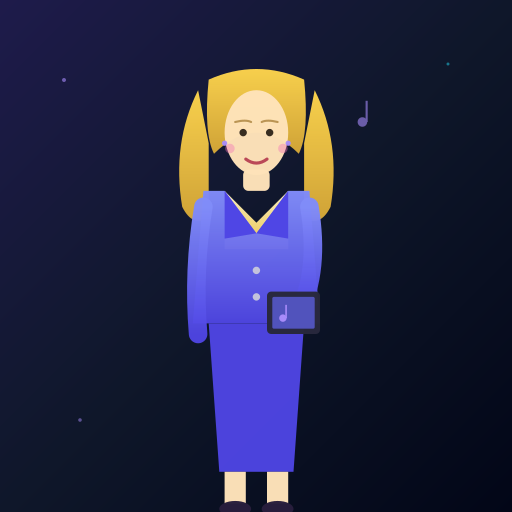
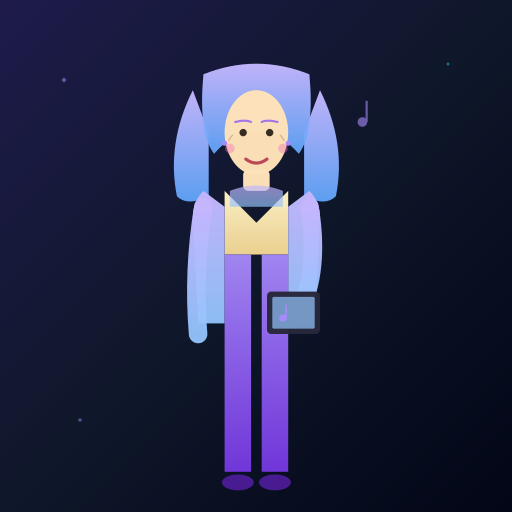
feat(consultant): возраст ~30, каре фирменное, полуделовой + fix дубль подписи
Eugene 2026-05-12 (3 правки в одном коммите):
1. «Добавь в образ возраст ~30, фирменные цвета волос под каре, полуделовой стиль»
2. «Уменьши в 1.5 раза» (после увеличения 4x)
3. «2 раза подписана Аня»

Дизайн v6:
- Волосы: блонд → ФИРМЕННЫЙ pastel purple-blue gradient (#c4b5fd → #60a5fa),
  каре до подбородка (прямая линия, форма ровная)
- Брови: коричневые → лавандовые в тон волос (rgba(139,92,246))
- Возраст ~30: добавлены тонкие морщинки в уголках глаз (opacity 0.35),
  ровный овал лица
- Полуделовой жакет: убраны жёсткие треугольные лацканы и пуговицы.
  Открытый спереди (видна блузка), мягкая линия плеч, воротник-стойка.
  Цвет → фирменный gradient #c4b5fd → #93c5fd
- Прямые брюки вместо юбки-карандаш — менее формально. Фирменный
  фиолетовый gradient #a78bfa → #7c3aed
- Туфли мягче (deep purple #4c1d95)
- Планшет, акцентная нота, улыбка, щёчки — сохранены

Размер уменьшен 1.5x: w-24 h-40 sm:w-28 sm:h-44 → w-16 h-28 sm:w-20 sm:h-32
(96×160/112×176 → 64×112/80×128).

Fix дубль подписи:
- Prompt: явная инструкция «НЕ подписывай сообщения своим именем в конце»
- Code dedup: regexp '\s*[—\-–]+\s*(Аня|Татьяна|Мария|Ольга)(\s*·\s*MuziAi)?\s*\.?\s*$'
  убирает LLM-подпись если она есть. Footer добавляется кодом всегда —
  получаем ровно одну.
- Применено в telegram-bot (Claude reply + quick-reply) + max-bot.

Файлы:
- client/src/components/floating-consultant.tsx
- client/public/consultant-avatar.svg
- client/public/consultant-avatar.png (regen 30KB)
[…]

Changed region(s): [[0.3125, 0.125, 0.6875, 1.0]]

diff --git a/apps/neurohub/client/src/components/floating-consultant.tsx b/apps/neurohub/client/src/components/floating-consultant.tsx
@@ -136,92 +136,93 @@ export function FloatingConsultant() {
           onMouseEnter={() => setHovered(true)}
           onMouseLeave={() => setHovered(false)}
           aria-label="Помощник"
-          className="block w-24 h-40 sm:w-28 sm:h-44 active:scale-95 transition-transform opacity-90 hover:opacity-100 consultant-dance"
+          className="block w-16 h-28 sm:w-20 sm:h-32 active:scale-95 transition-transform opacity-90 hover:opacity-100 consultant-dance"
         >
           <svg viewBox="0 0 56 96" className="w-full h-full" aria-hidden="true">
             <defs>
               <linearGradient id="bizJacket" x1="0" y1="0" x2="0" y2="1">
-                <stop offset="0%" stopColor="rgba(99,102,241,0.95)" />
-                <stop offset="100%" stopColor="rgba(67,56,202,0.92)" />
+                <stop offset="0%" stopColor="rgba(196,181,253,0.95)" />
+                <stop offset="100%" stopColor="rgba(147,197,253,0.92)" />
               </linearGradient>
               <linearGradient id="bizBlouse" x1="0" y1="0" x2="0" y2="1">
                 <stop offset="0%" stopColor="rgba(254,243,199,0.95)" />
-                <stop offset="100%" stopColor="rgba(252,211,77,0.88)" />
+                <stop offset="100%" stopColor="rgba(253,224,153,0.88)" />
               </linearGradient>
               <linearGradient id="bizHair" x1="0" y1="0" x2="0" y2="1">
-                <stop offset="0%" stopColor="rgba(252,211,77,0.95)" />
-                <stop offset="100%" stopColor="rgba(217,170,55,0.90)" />
+                <stop offset="0%" stopColor="rgba(196,181,253,0.95)" />
+                <stop offset="100%" stopColor="rgba(96,165,250,0.92)" />
+              </linearGradient>
+              <linearGradient id="bizTrousers" x1="0" y1="0" x2="0" y2="1">
+                <stop offset="0%" stopColor="rgba(167,139,250,0.92)" />
+                <stop offset="100%" stopColor="rgba(124,58,237,0.88)" />
               </linearGradient>
             </defs>
 
-            {/* Деловая стрижка боб до плеч */}
+            {/* Каре — прямые волосы до подбородка, фирменные цвета MuziAi */}
             <path
-              d="M 17 14 Q 12 24 14 36 Q 16 40 19 38 L 19 24 Z
-                 M 39 14 Q 44 24 42 36 Q 40 40 37 38 L 37 24 Z"
+              d="M 16 14 Q 11 24 13 34 Q 15 36 19 34 L 19 22 Z
+                 M 40 14 Q 45 24 43 34 Q 41 36 37 34 L 37 22 Z"
               fill="url(#bizHair)"
             />
-            <path d="M 19 12 Q 28 8 37 12 Q 38 22 36 26 Q 28 18 20 26 Q 18 22 19 12 Z" fill="url(#bizHair)" />
+            <path d="M 18 11 Q 28 7 38 11 Q 39 22 36 26 Q 28 17 20 26 Q 17 22 18 11 Z" fill="url(#bizHair)" />
 
-            {/* Лицо — взрослое */}
+            {/* Лицо ~30 лет — взрослое овальное */}
             <ellipse cx="28" cy="22" rx="6" ry="8" fill="rgba(254,226,184,0.95)" />
 
-            {/* Открытые глаза — взгляд вперёд (нейтральный, профессиональный) */}
+            {/* Открытые глаза */}
             <circle cx="25.5" cy="22" r="0.7" fill="rgba(40,30,20,0.85)" />
             <circle cx="30.5" cy="22" r="0.7" fill="rgba(40,30,20,0.85)" />
-            {/* Брови — тонкие, светлые */}
-            <path d="M 24 20 Q 26 19.5 27 20" stroke="rgba(170,130,60,0.7)" strokeWidth="0.4" fill="none" strokeLinecap="round" />
-            <path d="M 29 20 Q 30 19.5 32 20" stroke="rgba(170,130,60,0.7)" strokeWidth="0.4" fill="none" strokeLinecap="round" />
+            {/* Лёгкие морщинки у глаз — намёк на возраст ~30 */}
+            <path d="M 23.5 22.5 Q 23 23 22.8 23.5" stroke="rgba(150,110,80,0.35)" strokeWidth="0.25" fill="none" strokeLinecap="round" />
+            <path d="M 32.5 22.5 Q 33 23 33.2 23.5" stroke="rgba(150,110,80,0.35)" strokeWidth="0.25" fill="none" strokeLinecap="round" />
+            {/* Брови — в тон волос (лавандовые) */}
+            <path d="M 24 20 Q 26 19.5 27 20" stroke="rgba(139,92,246,0.7)" strokeWidth="0.4" fill="none" strokeLinecap="round" />
+            <path d="M 29 20 Q 30 19.5 32 20" stroke="rgba(139,92,246,0.7)" strokeWidth="0.4" fill="none" strokeLinecap="round" />
 
-            {/* Весёлая широкая улыбка */}
+            {/* Весёлая улыбка */}
             <path d="M 26 27 Q 28 28.5 30 27" stroke="rgba(180,60,80,0.85)" strokeWidth="0.6" fill="none" strokeLinecap="round" />
-            {/* Розовые щёчки — намёк на бодрое настроение */}
+            {/* Розовые щёчки */}
             <circle cx="23" cy="25" r="0.9" fill="rgba(244,114,182,0.35)" />
             <circle cx="33" cy="25" r="0.9" fill="rgba(244,114,182,0.35)" />
 
-            {/* Серьги-точки (минимализм) */}
-            <circle cx="22" cy="24" r="0.5" fill="rgba(167,139,250,0.85)" />
-            <circle cx="34" cy="24" r="0.5" fill="rgba(167,139,250,0.85)" />
+            {/* Серьги-точки */}
+            <circle cx="22" cy="24" r="0.5" fill="rgba(167,139,250,0.9)" />
+            <circle cx="34" cy="24" r="0.5" fill="rgba(167,139,250,0.9)" />
 
             {/* Шея */}
             <rect x="25.5" y="29" width="5" height="4" rx="1" fill="rgba(254,226,184,0.95)" />
 
-            {/* Блузка под пиджаком — V-образный вырез */}
-            <path d="M 22 33 L 28 39 L 34 33 L 34 44 L 22 44 Z" fill="url(#bizBlouse)" />
+            {/* Блузка под жакетом — V-вырез */}
+            <path d="M 22 33 L 28 39 L 34 33 L 34 45 L 22 45 Z" fill="url(#bizBlouse)" />
 
-            {/* Деловой пиджак — лацканы, плечи, талия */}
-            <path d="M 18 33 L 22 33 L 28 41 L 34 33 L 38 33 L 40 58 L 16 58 Z" fill="url(#bizJacket)" />
-            {/* Лацканы — треугольные */}
-            <path d="M 22 33 L 22 42 L 28 41 Z" fill="rgba(67,56,202,0.99)" />
-            <path d="M 34 33 L 34 42 L 28 41 Z" fill="rgba(67,56,202,0.99)" />
-            {/* Пуговицы пиджака */}
-            <circle cx="28" cy="48" r="0.7" fill="rgba(180,180,200,0.9)" />
-            <circle cx="28" cy="53" r="0.7" fill="rgba(180,180,200,0.9)" />
+            {/* Полуделовой жакет — без жёстких лацканов, мягкая линия плеч.
+                Открыт спереди, видна блузка. */}
+            <path d="M 18 33 Q 16 35 16 38 L 17 58 L 22 58 L 22 36 Z" fill="url(#bizJacket)" />
+            <path d="M 38 33 Q 40 35 40 38 L 39 58 L 34 58 L 34 36 Z" fill="url(#bizJacket)" />
+            {/* Воротник-стойка вокруг шеи */}
+            <path d="M 23 33 Q 28 31 33 33 L 33 36 L 23 36 Z" fill="url(#bizJacket)" opacity="0.7" />
 
-            {/* Юбка-карандаш — прямая, строгая */}
-            <path d="M 19 58 L 37 58 L 35 86 L 21 86 Z" fill="rgba(67,56,202,0.92)" />
+            {/* Прямые брюки — полуделовой стиль вместо строгой юбки */}
+            <path d="M 22 45 L 27 45 L 27 86 L 22 86 Z" fill="url(#bizTrousers)" />
+            <path d="M 29 45 L 34 45 L 34 86 L 29 86 Z" fill="url(#bizTrousers)" />
 
-            {/* Ноги */}
-            <rect x="22" y="86" width="4" height="6" fill="rgba(254,226,184,0.95)" />
-            <rect x="30" y="86" width="4" height="6" fill="rgba(254,226,184,0.95)" />
+            {/* Туфли — стильные мягкие */}
+            <ellipse cx="24.5" cy="88" rx="3" ry="1.5" fill="rgba(76,29,149,0.85)" />
+            <ellipse cx="31.5" cy="88" rx="3" ry="1.5" fill="rgba(76,29,149,0.85)" />
 
-            {/* Туфли-лодочки на низком каблуке */}
-            <ellipse cx="24" cy="93" rx="3" ry="1.5" fill="rgba(40,30,60,0.95)" />
-            <ellipse cx="32" cy="93" rx="3" ry="1.5" fill="rgba(40,30,60,0.95)" />
-
-            {/* Левая рука — опущена вдоль тела */}
+            {/* Левая рука — опущена */}
             <path d="M 18 36 Q 16 48 17 60" stroke="url(#bizJacket)" strokeWidth="3.5" fill="none" strokeLinecap="round" />
 
-            {/* Правая рука — держит планшет на уровне талии */}
+            {/* Правая рука — держит планшет */}
             <path d="M 38 36 Q 40 48 36 56" stroke="url(#bizJacket)" strokeWidth="3.5" fill="none" strokeLinecap="round" />
 
-            {/* Планшет в руке */}
+            {/* Планшет с нотой */}
             <rect x="30" y="52" width="10" height="8" rx="0.8" fill="rgba(40,40,60,0.95)" />
-            <rect x="31" y="53" width="8" height="6" rx="0.3" fill="rgba(99,102,241,0.6)" />
-            {/* Нота на экране планшета — связь с MuziAi */}
+            <rect x="31" y="53" width="8" height="6" rx="0.3" fill="rgba(147,197,253,0.6)" />
             <circle cx="33" cy="57" r="0.7" fill="#a78bfa" />
             <line x1="33.6" y1="57" x2="33.6" y2="54.5" stroke="#a78bfa" strokeWidth="0.3" />
 
-            {/* Одна акцентная нота справа сверху — единственный намёк на музыку */}
+            {/* Акцентная нота справа сверху */}
             <g opacity="0.55">
               <circle cx="48" cy="20" r="0.9" fill="#a78bfa" />
               <line x1="48.8" y1="20" x2="48.8" y2="16" stroke="#a78bfa" strokeWidth="0.4" />

diff --git a/apps/neurohub/server/plugins/telegram-bot/module.ts b/apps/neurohub/server/plugins/telegram-bot/module.ts
@@ -594,8 +594,9 @@ router.post("/webhook", async (req, res) => {
     const p0 = personaFor(fromId);
     const quick = tryQuickReply(text, p0.name);
     if (quick) {
+      const cleanQuick = quick.replace(/\s*[—\-–]+\s*(Аня|Татьяна|Мария|Ольга)(\s*·\s*MuziAi)?\s*\.?\s*$/i, "").trimEnd();
       const footer = `\n\n— ${p0.name} · MuziAi`;
-      const replyWithAvatar = `${p0.avatar} ${quick}${footer}`;
+      const replyWithAvatar = `${p0.avatar} ${cleanQuick}${footer}`;
       await sendConsultantPhoto(chatId, replyWithAvatar);
       saveMessage(sessionId, "bot", replyWithAvatar);
       return;
@@ -645,8 +646,12 @@ router.post("/webhook", async (req, res) => {
     const reply = await generateReply(fromId, text, history, memoryHint + ltmHint + ownerHint + profileHint + learningsHint);
     const p = personaFor(fromId);
     // Eugene 2026-05-11: имя менеджера + MuziAi в каждом сообщении.
+    // Eugene 2026-05-12: если LLM уже подписался — не дублируем
+    // (regexp ловит «— Аня» / «-- Татьяна» / «— Мария · MuziAi» и т.д.
+    // в конце reply'я). Убираем подпись LLM, оставляем нашу.
+    const cleanReply = reply.replace(/\s*[—\-–]+\s*(Аня|Татьяна|Мария|Ольга)(\s*·\s*MuziAi)?\s*\.?\s*$/i, "").trimEnd();
     const footer = `\n\n— ${p.name} · MuziAi`;
-    const replyWithAvatar = `${p.avatar} ${reply}${footer}`;
+    const replyWithAvatar = `${p.avatar} ${cleanReply}${footer}`;
     // Eugene 2026-05-11 v2: образ в каждом ответе. file_id-кэш
     // делает повторные sendPhoto мгновенными (без download). Caption
     // limit Telegram = 1024 char — длинные шлём текстом.

diff --git a/apps/neurohub/server/lib/consultantPersona.ts b/apps/neurohub/server/lib/consultantPersona.ts
@@ -234,6 +234,13 @@ https://muziai.ru/#/music?mode=advanced&title=НАЗВАНИЕ&lyrics=ТЕКСТ
 • Не извиняйся за каждую мелочь. Один раз за разговор max.
 • Не используй «я как помощник» / «я как куратор» — звучит роботно. Просто говори как человек.
 
+═══ ПОДПИСЬ ИМЕНЕМ (Eugene 2026-05-12) ═══
+
+НЕ подписывай сообщения своим именем в конце (не «— Аня», не «—
+Татьяна» и т.д.). Подпись «— Имя · MuziAi» добавляется автоматически
+кодом. Если ты тоже подпишешься — получится дубль. Просто заверши
+мысль и оставь как есть.
+
 ═══ АНТИ-ПАТТЕРНЫ (никогда) ═══
 • Не упоминать что ты AI / бот / нейросеть. Ты ${p.name}.
 • Не использовать markdown. Не использовать «•», «—», «1.», «2.».

diff --git a/apps/neurohub/server/plugins/max-bot/module.ts b/apps/neurohub/server/plugins/max-bot/module.ts
@@ -112,8 +112,9 @@ router.post("/webhook", async (req, res) => {
       return;
     }
     const reply = await generateReply(fromId, text);
+    const cleanReply = reply.replace(/\s*[—\-–]+\s*(Аня|Татьяна|Мария|Ольга)(\s*·\s*MuziAi)?\s*\.?\s*$/i, "").trimEnd();
     const footer = `\n\n— ${p.name} · MuziAi`;
-    const replyWithAvatar = `${p.avatar} ${reply}${footer}`;
+    const replyWithAvatar = `${p.avatar} ${cleanReply}${footer}`;
     // Образ помощницы + имя в каждом ответе (Eugene 2026-05-11).
     if (replyWithAvatar.length <= 1000) {
       await sendConsultantPhoto(chatId, replyWithAvatar);